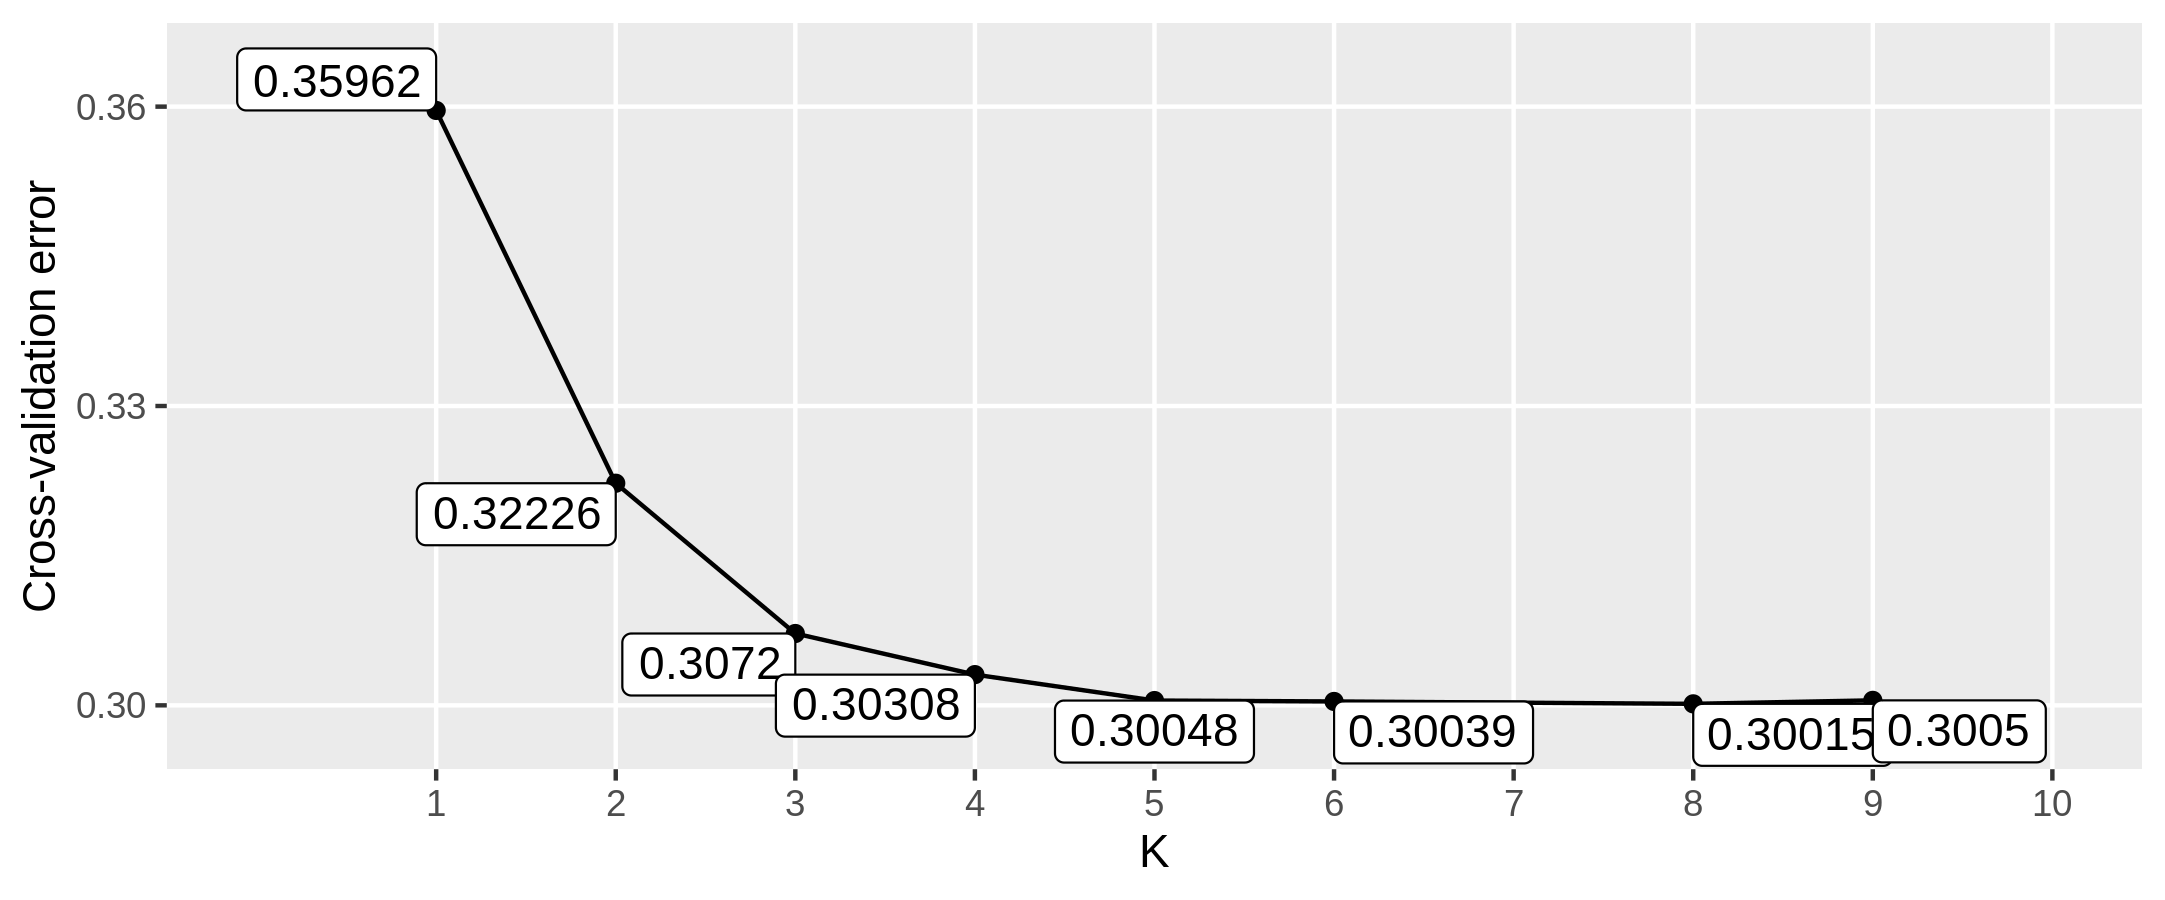
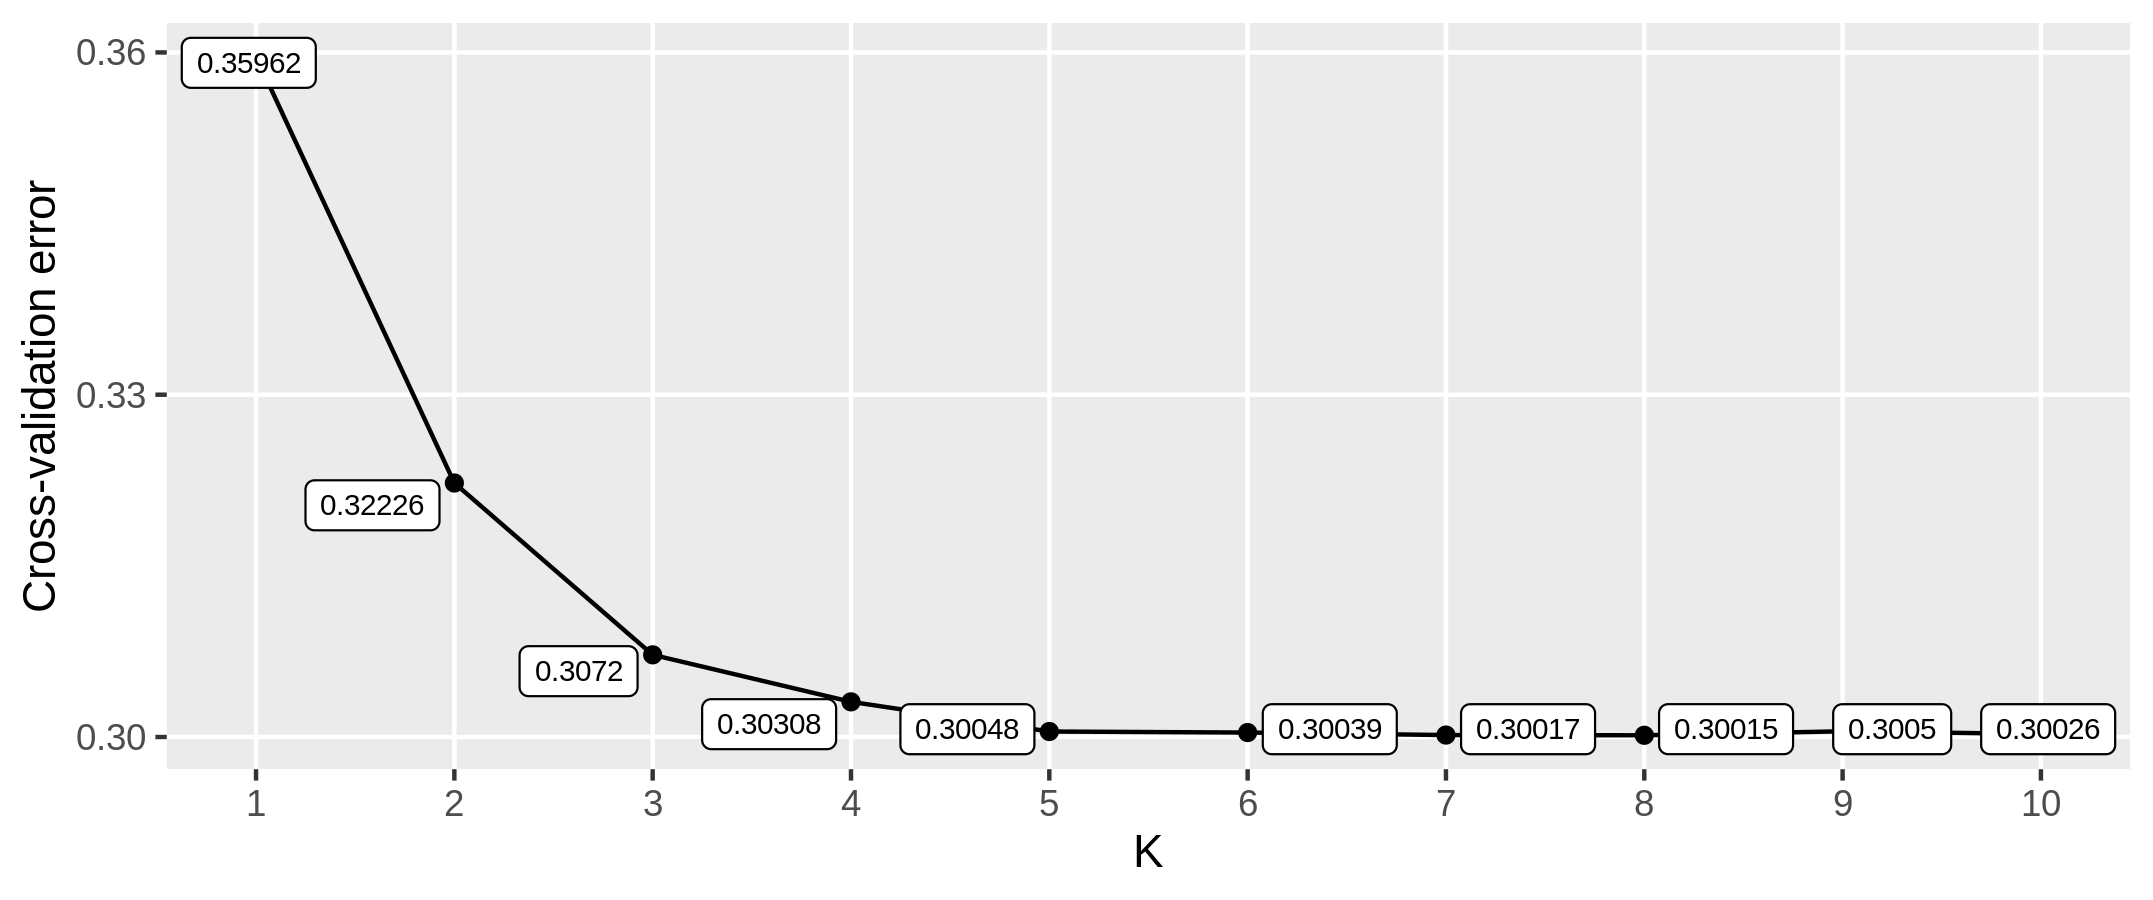
select most EUR individuals by PCA; update plots

diff --git a/README.md b/README.md
@@ -161,23 +161,33 @@ resting or test condition.
 
 ### 2.4. Results
 
-The PCA plot shows the MGB individuals with the 1000 Genomes data
-superimposed. We can see that individuals are distributed along 5 axis
-of variation which correspond to the 5 main continental groups.
+The PCA plot shows the MGB individuals in comparison with the 1000
+Genomes data. We can see that individuals are distributed according to
+the 5 main continental groups.
 
-<img src="./plots/pca.png" width="2284" />
+Below, I’m showing a subset of MGB biobank individuals who are within 2
+standard deviations from the European averages for PC1, PC2 and PC3. I’m
+calling those “MGB\_most\_EUR”.
 
-Next, I wanted to run ADMIXTURE to determine the ancestry proportions in
-each individual, so I could select those who are (mostly) of European
+<img src="./plots/pca.png" width="2400" />
+
+I think I’m going to select these individuals for the next step, since
+results from the ADMIXTURE program are a bit difficult to understand at
+this point.
+
+I wanted to run ADMIXTURE to determine the ancestry proportions in each
+individual, so I could select those who are (mostly) of European
 ancestry.
 
 First, I ran the cross-validation procedure of ADMIXTURE to determine
 the best value of K cluster, and see if K = 5 would really make sense.
-Indeed, K=5 looks a good guess.
+Indeed, K=5 looks a good guess. If we use larger values of K, we start
+seeing separation within continents, which is not really our goal.
 
-<img src="./plots/admixture_cv.png" width="2165" />
+<img src="./plots/admixture_cv.png" width="2153" />
 
-In fact, separation of populations in 5 cluster makes sense:
+In fact, separation of populations in 5 cluster makes sense in the 1000
+Genomes data:
 
 <img src="./plots/admixture.png" width="2165" />
 
@@ -199,9 +209,10 @@ average of 9%.
 
 <img src="./plots/admixture_mgb.png" width="2171" />
 
-Is this share ancestry with EUR that are being marked as SAS?
+Finally, I tried using only 3 populations in my reference panel: CEU,
+YRI, and CHS. But now I have a constant Chinese ancestry on all
+individuals.
 
-### 2.5. TO DO:
+<img src="./plots/admixture_mgb_k3.png" width="2553" />
 
--   select SLE variants from Langefeld et al. (2017);
--   select European individuals from MGB biobank.
+Therefore, I’ve decided for now to stick with the selection by PCA.
